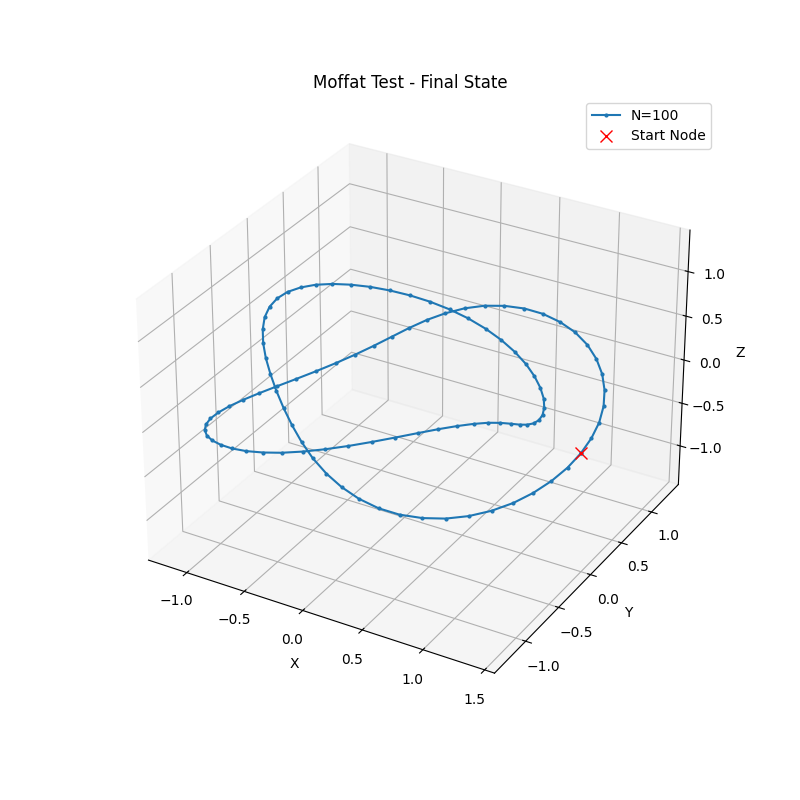
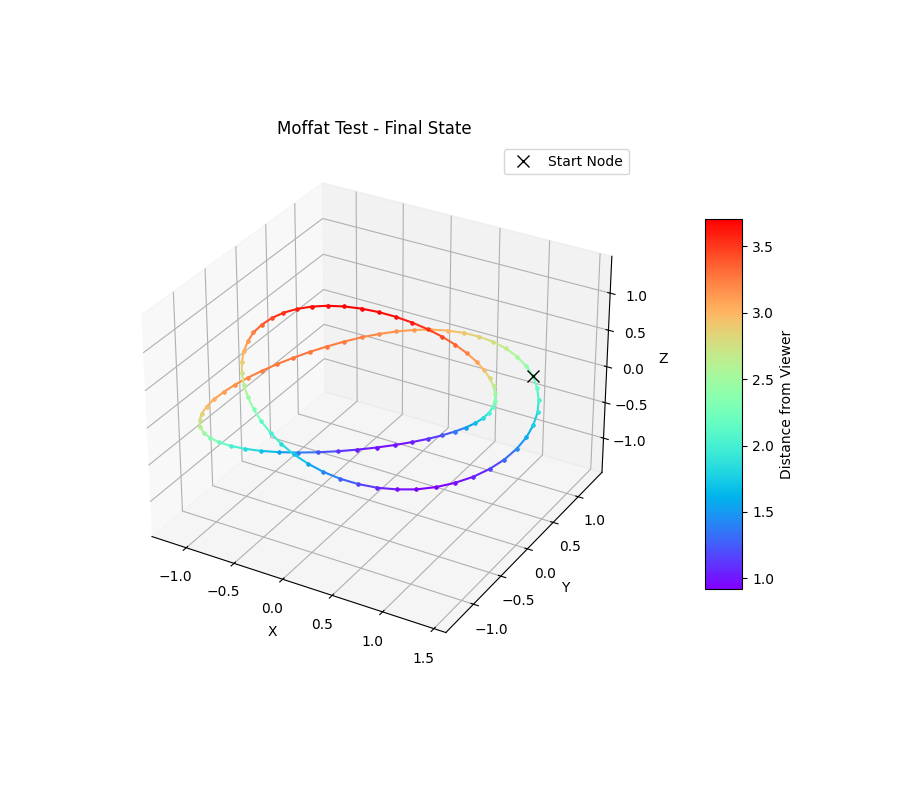
We are going to try reversing the T(3,2) notation

diff --git a/sono_project/visualization.py b/sono_project/visualization.py
@@ -1,14 +1,16 @@
 import numpy as np
 import matplotlib.pyplot as plt
+import matplotlib.colors as mcolors
+import matplotlib.cm as cm
 from mpl_toolkits.mplot3d import Axes3D # Required for 3D plotting
 import os
 
 # Use relative import
 from .knot import Knot
 
-def plot_knot(knot: Knot, title: str = "Knot Conformation", save_path: str = None, show_plot: bool = True):
+def plot_knot(knot: Knot, title: str = "Knot Conformation", save_path: str = None, show_plot: bool = True, cmap_name: str = 'rainbow'):
     """
-    Plots the 3D conformation of the knot.
+    Plots the 3D conformation of the knot, coloring segments by distance from origin.
 
     Args:
         knot: The Knot object to plot.
@@ -16,25 +18,68 @@ def plot_knot(knot: Knot, title: str = "Knot Conformation", save_path: str = Non
         save_path: Optional path to save the plot image file.
                    The directory will be created if it doesn't exist.
         show_plot: Whether to display the plot window (plt.show()).
+        cmap_name: Name of the matplotlib colormap to use (e.g., 'rainbow', 'viridis', 'plasma').
     """
     if knot.num_nodes < 2:
         print("Warning: Cannot plot knot with fewer than 2 nodes.")
         return
 
-    fig = plt.figure(figsize=(8, 8))
+    fig = plt.figure(figsize=(9, 8)) # Slightly wider for colorbar
     ax = fig.add_subplot(111, projection='3d')
 
-    # Get coordinates, including wrapping back to the start
-    nodes = np.vstack([knot.nodes, knot.nodes[0]]) # Add first node at the end to close the loop
-    x = nodes[:, 0]
-    y = nodes[:, 1]
-    z = nodes[:, 2]
+    # Get coordinates, including wrapping back to the start for segments
+    nodes = knot.nodes
+    n = knot.num_nodes
 
-    # Plot the knot backbone
-    ax.plot(x, y, z, marker='o', markersize=2, linestyle='-', label=f'N={knot.num_nodes}')
+    # Calculate segment midpoints and their distances from origin
+    midpoints = np.zeros((n, 3))
+    distances = np.zeros(n)
+    segments = []
+
+    # Determine viewer point (max X, min Y, max Z of the knot)
+    if n > 0:
+        viewer_x = nodes[:, 0].max()
+        viewer_y = nodes[:, 1].min()
+        viewer_z = nodes[:, 2].max()
+        viewer_point = np.array([viewer_x, viewer_y, viewer_z])
+    else: # Should not happen due to early exit for n < 2
+        viewer_point = np.array([0.0, 0.0, 0.0])
+
+    for i in range(n):
+        p1 = nodes[i]
+        p2 = nodes[(i + 1) % n]
+        segments.append((p1, p2))
+        midpoints[i] = (p1 + p2) / 2.0
+        distances[i] = np.linalg.norm(midpoints[i] - viewer_point)
+
+    # Normalize distances for colormap
+    min_dist = distances.min()
+    max_dist = distances.max()
+    if max_dist == min_dist:
+        # Avoid division by zero if all points are equidistant (or only one segment)
+        norm_distances = np.full(n, 0.5)
+    else:
+        norm_distances = (distances - min_dist) / (max_dist - min_dist)
+
+    # Get the colormap
+    try:
+        cmap = cm.get_cmap(cmap_name)
+    except ValueError:
+        print(f"Warning: Colormap '{cmap_name}' not found. Using 'viridis'.")
+        cmap = cm.get_cmap('viridis')
+
+    # Plot each segment with its calculated color
+    norm = mcolors.Normalize(vmin=min_dist, vmax=max_dist)
+    mappable = cm.ScalarMappable(norm=norm, cmap=cmap)
+
+    for i in range(n):
+        p1, p2 = segments[i]
+        color = cmap(norm_distances[i])
+        ax.plot([p1[0], p2[0]], [p1[1], p2[1]], [p1[2], p2[2]], color=color, linestyle='-', marker='o', markersize=2)
 
     # Mark the starting node differently (optional)
-    ax.plot(x[0:1], y[0:1], z[0:1], marker='x', markersize=8, color='red', linestyle='', label='Start Node')
+    start_node = nodes[0]
+    ax.plot([start_node[0]], [start_node[1]], [start_node[2]], marker='x', markersize=8, color='black', linestyle='', label='Start Node')
 
     # --- Set plot appearance --- 
     ax.set_xlabel("X")
@@ -42,15 +87,21 @@ def plot_knot(knot: Knot, title: str = "Knot Conformation", save_path: str = Non
     ax.set_zlabel("Z")
     ax.set_title(title)
 
-    # Try to make aspect ratio equal - crucial for 3D perception
-    # Calculate the range of data
+    # Try to make aspect ratio equal
+    all_nodes_for_lim = np.vstack([nodes, nodes[0]]) # Use all nodes for limits
+    x, y, z = all_nodes_for_lim[:, 0], all_nodes_for_lim[:, 1], all_nodes_for_lim[:, 2]
     max_range = np.array([x.max()-x.min(), y.max()-y.min(), z.max()-z.min()]).max() / 2.0
+    if max_range < 1e-6: max_range = 1.0 # Avoid zero range for collapsed knots
     mid_x = (x.max()+x.min()) * 0.5
     mid_y = (y.max()+y.min()) * 0.5
     mid_z = (z.max()+z.min()) * 0.5
     ax.set_xlim(mid_x - max_range, mid_x + max_range)
     ax.set_ylim(mid_y - max_range, mid_y + max_range)
     ax.set_zlim(mid_z - max_range, mid_z + max_range)
+
+    # Add colorbar
+    cbar = fig.colorbar(mappable, ax=ax, shrink=0.6, aspect=10, pad=0.1)
+    cbar.set_label('Distance from Viewer')
 
     ax.legend()
     ax.grid(True)
@@ -86,9 +137,10 @@ if __name__ == '__main__':
 
         knot_trefoil = Knot(coordinates=coords_trefoil, diameter=0.5)
 
-        plot_knot(knot_trefoil, title="Example Trefoil Knot (3_1)", save_path="./trefoil_plot.png")
+        # Plot with default rainbow
+        plot_knot(knot_trefoil, title="Example Trefoil Knot (rainbow cmap)", save_path="./trefoil_plot_rainbow.png")
+        # Plot with viridis
+        # plot_knot(knot_trefoil, title="Example Trefoil Knot (viridis cmap)", save_path="./trefoil_plot_viridis.png", cmap_name='viridis', show_plot=False)
 
-        # Example of plotting without showing
-        # plot_knot(knot_trefoil, title="Example Trefoil (No Show)", save_path="./trefoil_no_show.png", show_plot=False)
     else:
         print("Cannot run example because Knot class could not be imported.") 

diff --git a/tests/test_moffat.py b/tests/test_moffat.py
@@ -88,10 +88,10 @@ def generate_torus_knot_coords(p: int, q: int, R: float, r: float, num_points: i
 
 def test_moffat_t32_to_t23():
     """
-    Test if SONO relaxes a T(3,2) trefoil configuration towards the T(2,3) form.
-    Ref: Paper Section 4.2, Fig 3.
-    We expect the ACN to stay ~3, Writhe ~ +/-3, and L/D to decrease.
-    The paper shows fluctuations, potentially requiring ShiftNodes.
+    Test the behavior of the SONO algorithm when starting with a T(2,3) trefoil.
+    The paper's Fig 3 shows T(3,2) relaxing to T(2,3). This test starts with T(2,3)
+    to observe its stability or any transformations (e.g., towards T(3,2)).
+    We expect ACN to stay ~3, Writhe ~ +/-3, and L/D to ideally decrease or remain stable.
     """
     # --- Test Setup ---
     output_dir = os.path.join(project_root, "test_outputs")
@@ -133,7 +133,7 @@ def test_moffat_t32_to_t23():
     # --- Run Simulation ---
     run_sono_simplified(
         knot,
-        max_iterations=10000, # Increased iterations
+        max_iterations=200000, # Increased iterations from 10000
         num_of_it=100,      # Less frequent FN
         scaling_factor=0.999, # Slower scaling
         overlap_threshold=1e-5,
